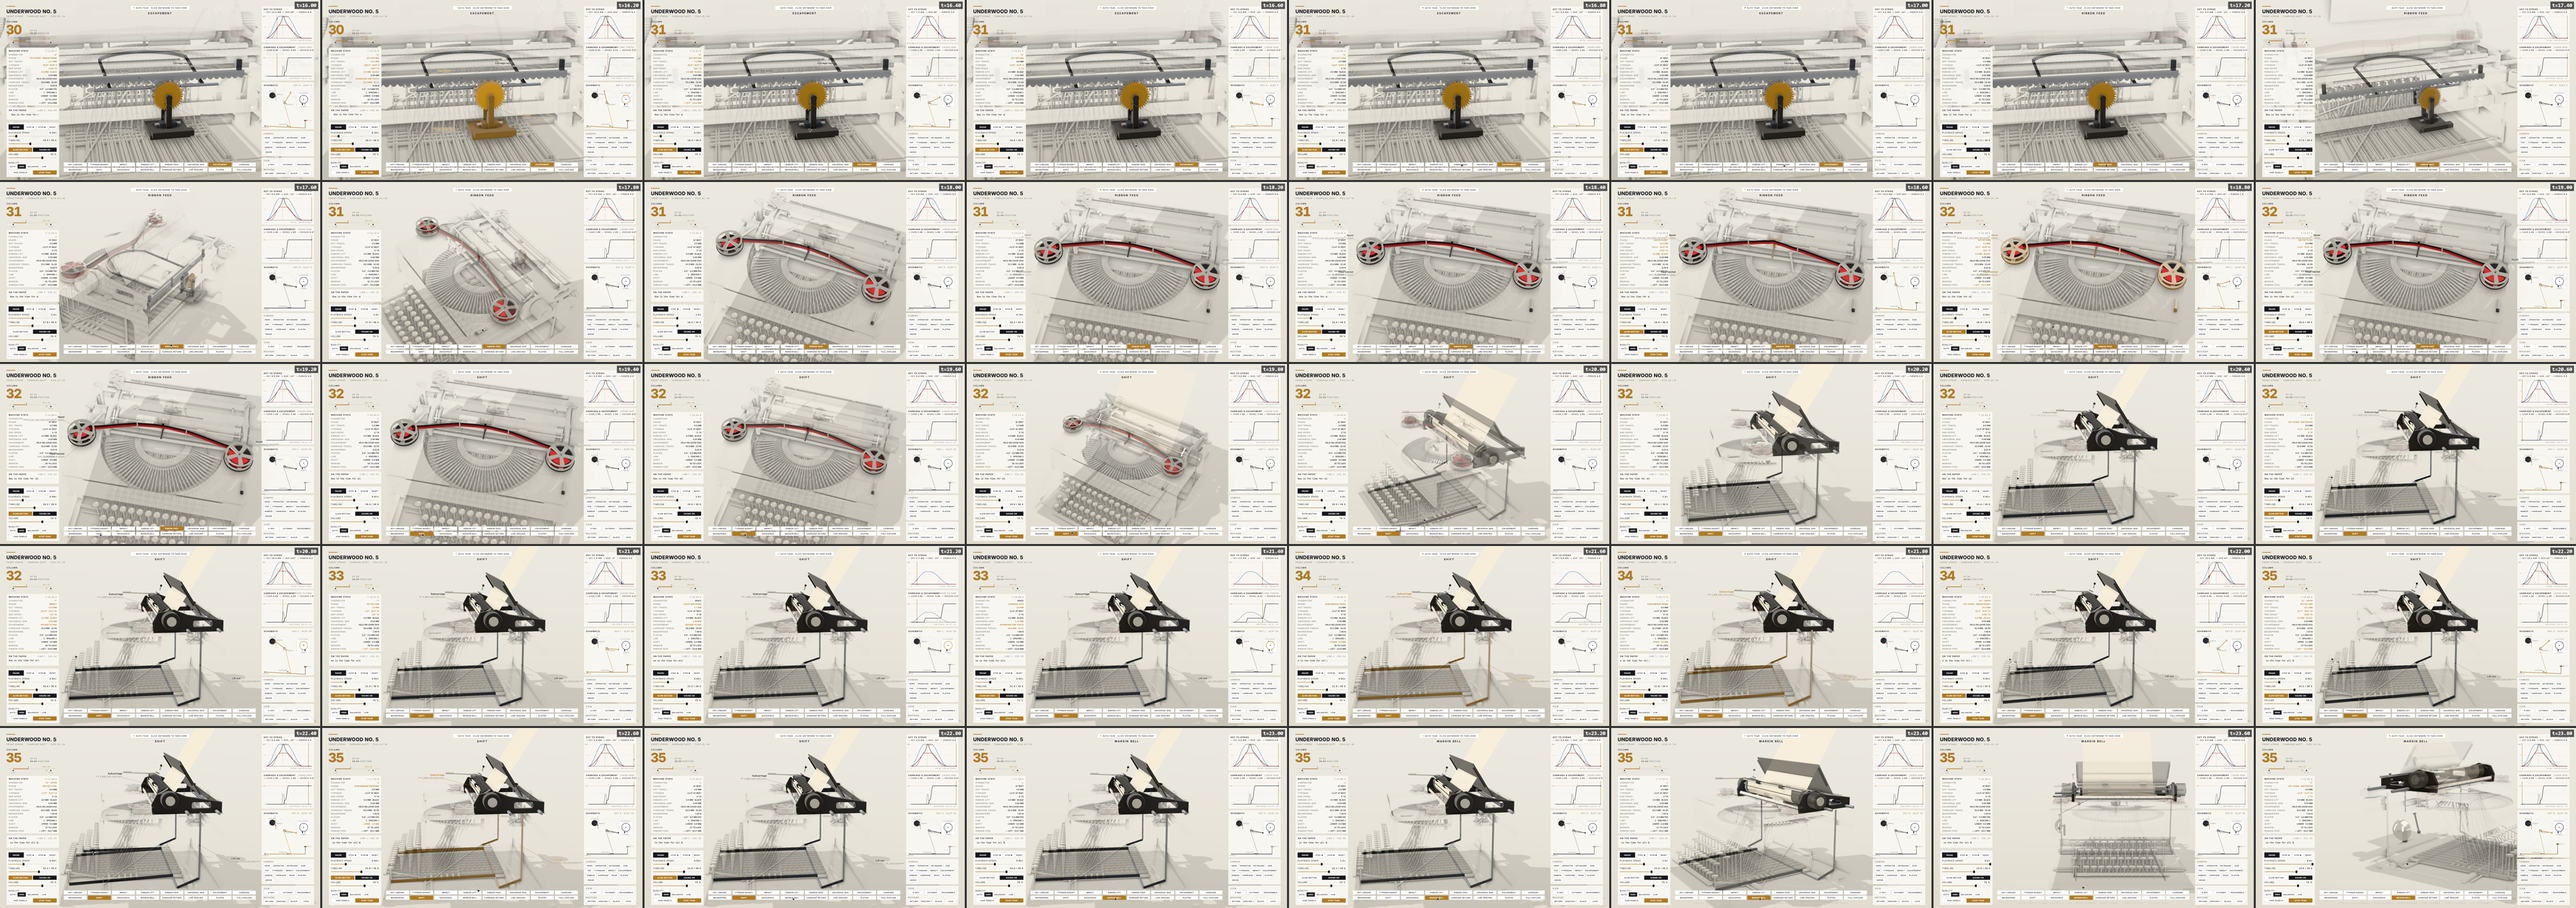
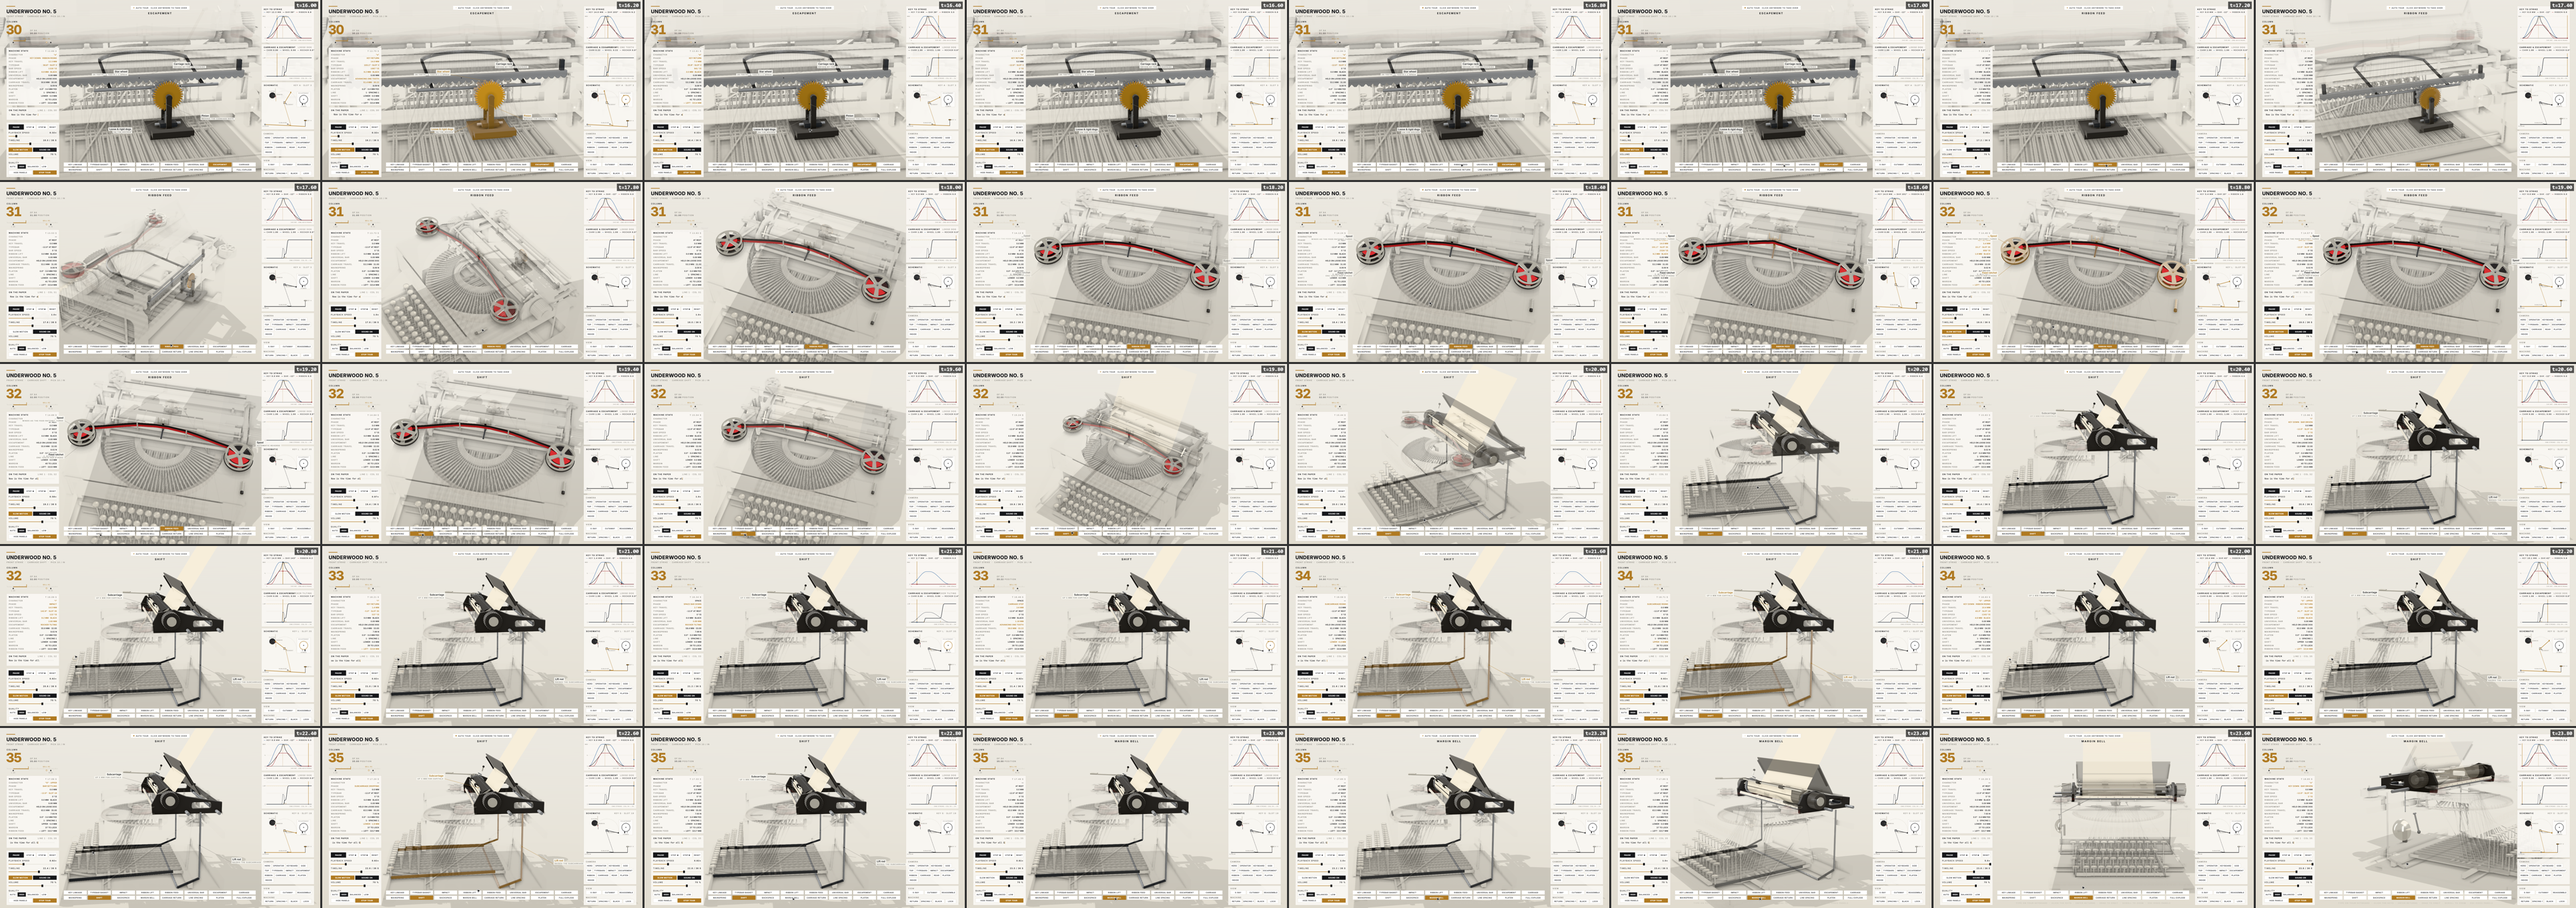
Validation notes, refreshed sheets and performance results, video link

diff --git a/docs/VALIDATION.md b/docs/VALIDATION.md
@@ -1,0 +1,71 @@
+# Testing and validation
+
+All results below come from the current `main` build (Chromium 145 via Playwright 1.58, Windows 11; GPUs: AMD Radeon
+integrated graphics and NVIDIA RTX 4090).
+
+## Automated tests
+
+| Suite | Command | Result |
+|---|---|---|
+| Model unit tests (deterministic state, progress, key mapping, key travel, key→typebar, strike position, ribbon, impact timing, character placement, escapement, one-space advance, space, backspace, shift and lock, bell threshold, line lock and release, return, spacing, platen/paper, paper limit, reset, seeking/truncation, invalid input, sound cues) | `npm test` | 25 / 25 |
+| Mechanics (typebar sweeps vs neighbours, spools, deck, decal panel; type-guide clearance; rack/pinion/wheel ratio; keys and levers vs base; explode vectors stay above the desk; platen ratchet geometry) | `npm test` | 10 / 10 |
+| Production e2e in Chromium (every console control, physical typing, clicking the machine's keys, shift/caps lock, invalid input, all 16 subsystem and 13 camera buttons, x-ray, cutaway, reassemble, return/spacing/colour/lock, pause/step/slow/speed/timeline scrub, reset, mute/volume, panels, all quality modes, orbit/zoom, tour hand-over, no resume mid-drag, resume after 25 s, keyboard focus, console errors/failed requests, local-path leaks, five layouts incl. phone portrait and landscape with touch, reduced motion, root vs `/Typewriter-Teardown/` base path) | `npm run test:e2e` | 27 / 27 |
+
+The e2e suite also runs against the deployed site: `node tests/e2e/run.mjs --url https://simsi2027.github.io/Typewriter-Teardown/`.
+Screenshots of every layout are written to `validation/e2e/`.
+
+## Still-frame review
+
+- `validation/contact-sheet.png`: one frame 0.9 s after every tour beat (24 beats).
+- `validation/scrub-01…05.png`: the whole 35.5 s tour at 0.2 s intervals (178 frames), covering every transition.
+- `validation/views-sheet.png`: all 13 cameras, all 16 subsystem views, x-ray and cutaway at the impact moment.
+- `validation/impact-sheet.png`: the slow-motion strike around impact.
+- `validation/video-contact-sheet.png`: frames decoded from the encoded video at every beat.
+
+### Problems found and fixed
+
+| Found | Fix |
+|---|---|
+| Key levers dipped 8 mm into the base plate at full travel (mechanics test) | lever line raised 34 → 44 mm in `params.js` |
+| Explode vectors sent levers, sublevers and shift parts below the desk | vectors changed to lift-and-slide service directions; test added |
+| Slow-motion beats started their keystroke during the 0.3 s speed ramp, so impacts ran nearly at full speed | strokes start after the ramp settles; beats retimed (impact of "r" now at 11.92 s in deep slow motion) |
+| Ghosted assemblies rendered opaque and cream (three.js OPAQUE define) | programs switch to the transparent variant; both variants warmed before the first frame |
+| Side panels kept a ghost colour after warm-up (cloned material) | side panels got their own material group |
+| Brass accent tinted the ribbon orange and turned the whole carriage brass | fabric/paper/decals never take the accent; large castings take 35 % |
+| Escapement bracket hid the dogs | replaced by thin bearing posts |
+| Space bar hidden behind the front key row | space bar moved forward, front rail lowered |
+| Rod parts built along the wrong axis (space bar arms sticking out) | geometry rebuilt along the rod axis |
+| Paper entered the platen from the wrong side | wrap angle corrected: the sheet leaves the table at the platen's rear-bottom tangent |
+| Charts followed shift actions instead of keystrokes | they follow the last stroke |
+| Callout labels unreadable over dark parts; schematic cramped; gauge labels overlapping | pale label backing; schematic re-laid out; bell label above the gauge |
+| Mobile: the 1600 px stage widened the layout viewport (page scroll) | fixed, clipped body |
+| Typing at 1× overran the queue (last keys refused) | live machine time catches up (≤ 5×) while keys are queued |
+
+### Checked and found sound
+
+Keys stay on their stems and levers; each lever turns about the rear fulcrum; the link pull equals the sublever travel;
+typebars stay on the segment arc and clear their neighbours through the whole stroke; every slug face reaches the
+printing point at impact and never enters the platen; the ribbon is up before impact and down after; characters appear
+exactly at impact, in the carriage's column and the platen's line; the carriage moves left one space per stroke in two
+escapement steps (0.22 + 0.78 tooth); the escapement wheel only turns forward (backspace and return freewheel the
+pinion); shift raises the subcarriage 5 mm; the bell rings once, 7 spaces before the lock, as the carriage arrives on
+column 65; platen rotation equals paper travel (arc length); callout leaders end on their parts in every view.
+
+## Video
+
+`npm run video` → `validation/video/underwood-no5-tour.mp4` (git-ignored; attached to the GitHub release):
+35.5 s, 1920 × 1080, 60 fps, H.264 yuv420p, faststart, AAC 48 kHz, peak −1.4 dBFS. Every frame is rendered by
+`window.SIM.render(t)`; the soundtrack is rendered offline from the same session's cues. Audio onsets measured in the
+soundtrack match the modelled impacts (f 5.26 s, o 8.56 s, r 11.92 s).
+
+## Performance (`node scripts/perf.mjs`, 1600 × 900, tour running)
+
+| GPU | HIGH | BALANCED | LOW | AUTO settles on |
+|---|---|---|---|---|
+| AMD Radeon (integrated) | 30 fps | 86 fps | 103 fps | BALANCED, 72 fps |
+| NVIDIA RTX 4090 | 300 fps | 384 fps | 502 fps | HIGH, 311 fps |
+
+Measures: one PCF shadow type for every tier (a tier change never recompiles), shadow map redrawn every 2nd/3rd
+frame below HIGH, GTAO only on HIGH, MSAA 8/4/2, pixel ratio capped 2/1.25/1, instanced keys, levers, links, typebars
+and slugs, shared geometries and per-assembly material clones that share programs, panels redrawn every other frame
+on LOW, all shaders compiled in parallel before the first frame, rendering and audio stop while the tab is hidden.

diff --git a/README.md b/README.md
@@ -5,7 +5,8 @@ keyboard or by clicking its glass keys; open any mechanism with one button; watc
 the keys, linkage, typebars, ribbon, escapement, carriage, bell, platen and paper, while every gauge, chart and the live
 schematic read that same model.
 
-**Live demo:** https://simsi2027.github.io/Typewriter-Teardown/
+**Live demo:** https://simsi2027.github.io/Typewriter-Teardown/  
+**Tour video (35 s, 1080p60, with sound):** [underwood-no5-tour.mp4](https://github.com/SimSI2027/Typewriter-Teardown/releases/download/v1.0.0/underwood-no5-tour.mp4)
 
 ![Underwood No. 5 teardown simulator](public/social-preview.png)
 
